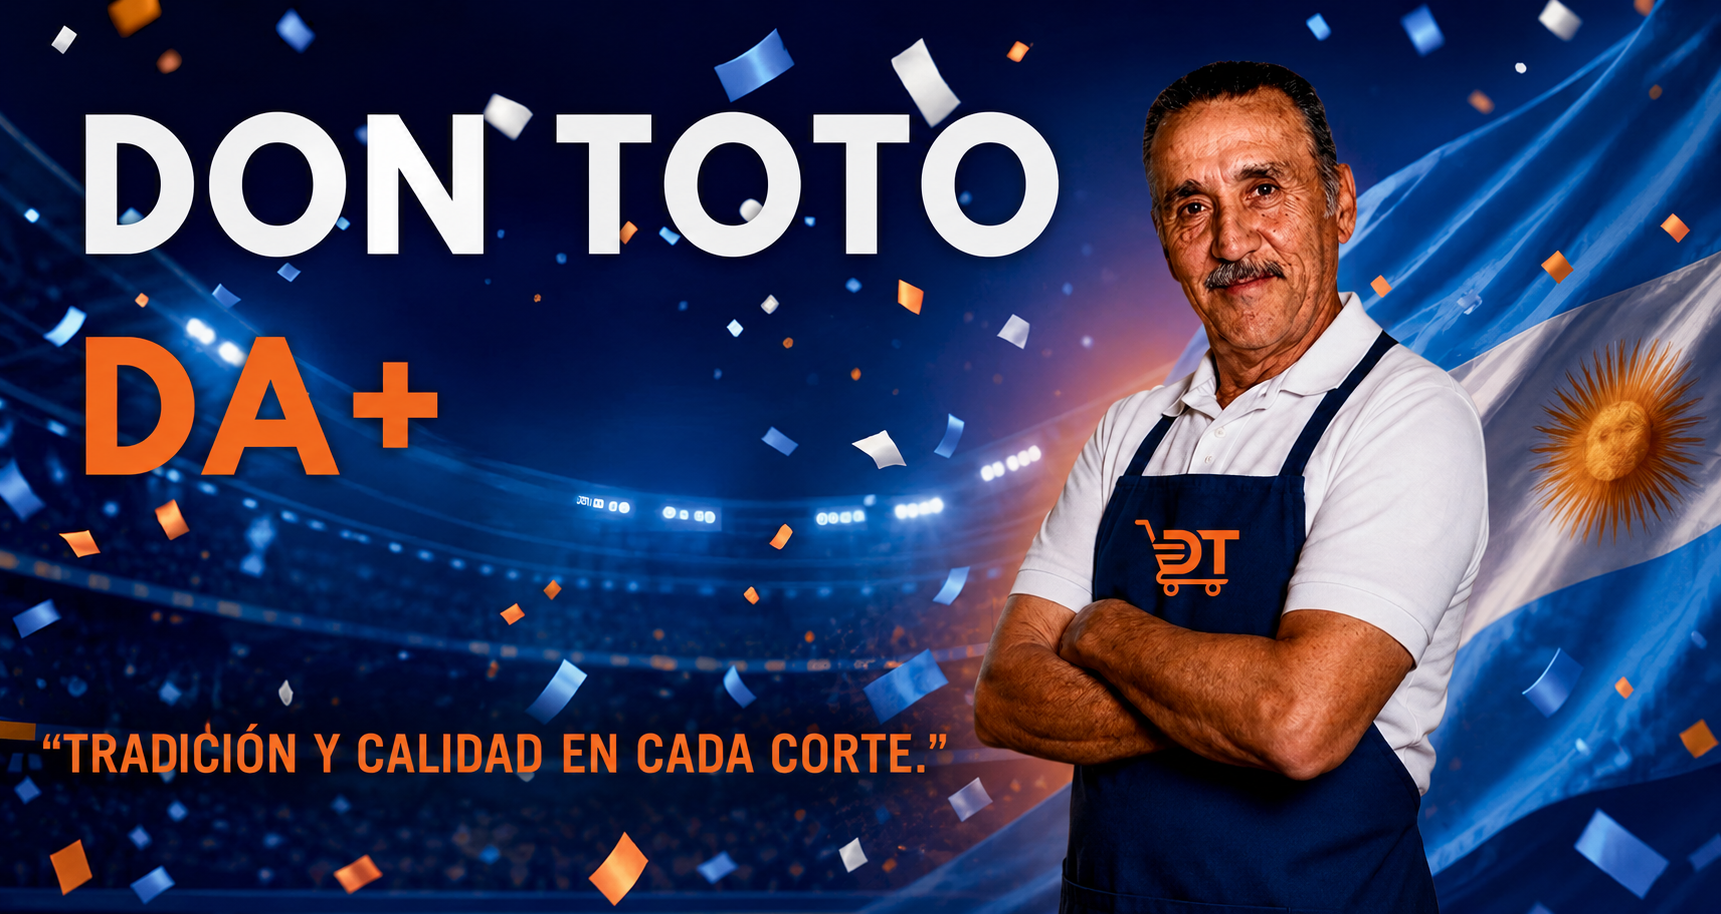
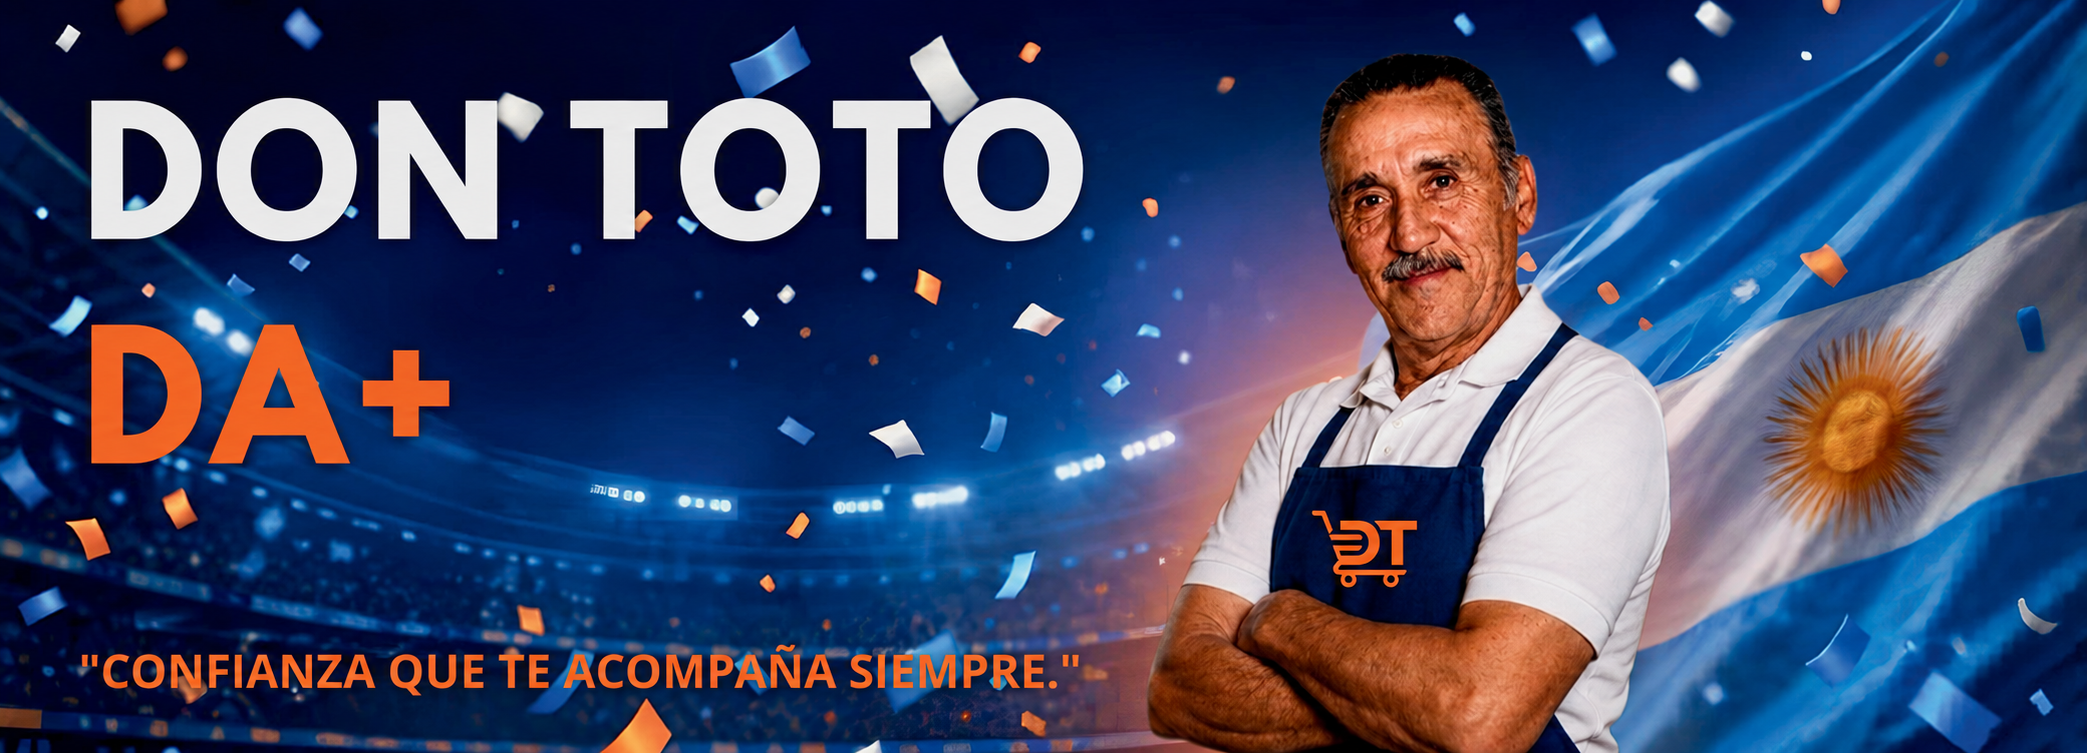
Header: icono oficial + buscador centrado; Hero: limpiar slide bienvenida y separar imagen del slide de liquidacion
Header (SiteHeader.tsx, Logo.tsx):
- DonTotoLogo suma la variante icon="official", que usa
  public/imagenes/dt-icon-oficial.png via next/image en vez del
  CartMark SVG. Los demas usos del logo (footer, Hero, ValuePropsStrip)
  siguen con el SVG porque necesitan la variante reversed sobre fondos
  navy/naranja.
- La fila del header pasa a grid de 3 columnas desde sm: para centrar
  el buscador en el ancho total, no solo en el hueco logo<->iconos.
  En mobile no cambia (sigue siendo flex).

Hero (Hero.tsx):
- El slide "bienvenida" ya no tiene overlay codeado (logo/tagline, CTA
  "Ver catalogo", pills) — el mensaje de marca viene integrado en la
  imagen reemplazada (hero-don-toto.png). object-position responsive
  para que el recorte mobile/sm no caiga en el hueco vacio del centro
  de esa imagen panoramica.
- El slide "liquidacion" (Asado de Tira Premium) ya no reutiliza
  hero-don-toto.png — usa su propia foto (asado-tira-promo.png), asi
  que no vuelve a mostrar el banner de marca donde deberia haber
  comida. Verificado legible con el overlay existente, sin necesidad
  de un overlay extra.

diff --git a/components/Hero.tsx b/components/Hero.tsx
@@ -4,21 +4,19 @@ import { useEffect, useState } from "react";
 import Image from "next/image";
 import Link from "next/link";
 import { formatoPeso } from "@/lib/format";
-import { DonTotoLogo } from "./Logo";
 import { PauseIcon, PlayIcon } from "./icons";
 
 const DURATION_MS = 6000;
 
-// El slide "bienvenida" es de marca pura (sin precio) y va siempre primero.
-// Los slides "promo" comparten el layout de precio grande + tachado + ahorro.
+// El slide "bienvenida" es solo la imagen de fondo (hero-don-toto.png) — el
+// mensaje de marca ya viene integrado en la propia imagen, así que no lleva
+// ningún overlay codeado (texto, CTA ni pills) encima. Los slides "promo"
+// comparten el layout de precio grande + tachado + ahorro.
 // Reemplazar por datos reales cuando exista el backend.
 type SlideBienvenida = {
   id: string;
   variant: "bienvenida";
-  descripcion: string;
   imagen: string;
-  ctaLabel: string;
-  ctaHref: string;
 };
 
 type SlidePromo = {
@@ -40,11 +38,7 @@ const SLIDES: Slide[] = [
   {
     id: "bienvenida",
     variant: "bienvenida",
-    descripcion:
-      "Tradición y calidad en cada corte — más de 20 años acompañando a tu familia.",
     imagen: "/hero-don-toto.png",
-    ctaLabel: "Ver catálogo",
-    ctaHref: "/tienda",
   },
   {
     id: "liquidacion",
@@ -57,7 +51,10 @@ const SLIDES: Slide[] = [
     precio: 8900,
     precioAntes: 12900,
     unidad: "kg",
-    imagen: "/hero-don-toto.png",
+    // foto propia del asado con productos Don Toto DA+ a la vista — antes
+    // compartía hero-don-toto.png con el slide de bienvenida, lo que quedaba
+    // inconsistente (mostraba el banner de marca en vez de comida).
+    imagen: "/asado-tira-promo.png",
   },
   {
     id: "congelados",
@@ -143,41 +140,29 @@ export default function Hero() {
             alt={s.variant === "promo" ? s.nombre : "Don Toto DA+"}
             fill
             priority={i === 0}
-            className={`object-cover object-center transition-opacity duration-700 ease-out ${
-              i === index ? "opacity-100" : "opacity-0"
-            }`}
+            className={`object-cover transition-opacity duration-700 ease-out ${
+              // el banner de bienvenida es panorámico (2087×753) — en los recortes
+              // más angostos (mobile 4:5 ≈29% del ancho visible, sm 16:9 ≈64%) el
+              // centro cae en el hueco vacío entre el wordmark y la foto, o corta
+              // el wordmark a la mitad. Se corre el foco hacia la derecha para
+              // priorizar a Don Toto; en lg (21:9 ≈84% visible) ya entra casi
+              // todo el banner, así que ahí va centrado. Los demás slides quedan
+              // en object-center siempre.
+              s.variant === "bienvenida"
+                ? "object-[75%_center] sm:object-[68%_center] lg:object-center"
+                : "object-center"
+            } ${i === index ? "opacity-100" : "opacity-0"}`}
           />
         ))}
 
-        {/* overlay navy — nunca violeta, mantiene la paleta de marca */}
-        <div className="absolute inset-0 bg-gradient-to-t from-brand-dark via-brand-dark/75 to-brand-dark/10 sm:bg-gradient-to-r sm:from-brand-dark sm:via-brand-dark/85 sm:to-transparent" />
-        <div className="absolute inset-0 bg-dot-grid bg-dots opacity-40 mix-blend-overlay" />
+        {slide.variant === "promo" && (
+          <>
+            {/* overlay navy — nunca violeta, mantiene la paleta de marca */}
+            <div className="absolute inset-0 bg-gradient-to-t from-brand-dark via-brand-dark/75 to-brand-dark/10 sm:bg-gradient-to-r sm:from-brand-dark sm:via-brand-dark/85 sm:to-transparent" />
+            <div className="absolute inset-0 bg-dot-grid bg-dots opacity-40 mix-blend-overlay" />
 
-        <div className="relative flex h-full flex-col justify-end px-5 pb-24 sm:justify-center sm:px-10 sm:pb-0 lg:px-16">
-          <div key={slide.id} className="max-w-md animate-fade-up">
-            {slide.variant === "bienvenida" ? (
-              <>
-                <h1 className="mt-1">
-                  <DonTotoLogo
-                    reversed
-                    markClassName="h-11 w-11 sm:h-14 sm:w-14"
-                    textClassName="text-4xl sm:text-5xl lg:text-6xl"
-                  />
-                </h1>
-                <p className="mt-4 max-w-sm text-sm text-white/70 sm:text-base">
-                  {slide.descripcion}
-                </p>
-                <div className="mt-6">
-                  <Link
-                    href={slide.ctaHref}
-                    className="inline-block rounded-full bg-white px-7 py-3 text-sm font-extrabold text-brand-navy shadow-tagSm transition hover:-translate-y-0.5 active:translate-y-0"
-                  >
-                    {slide.ctaLabel}
-                  </Link>
-                </div>
-              </>
-            ) : (
-              <>
+            <div className="relative flex h-full flex-col justify-end px-5 pb-24 sm:justify-center sm:px-10 sm:pb-0 lg:px-16">
+              <div key={slide.id} className="max-w-md animate-fade-up">
                 <span className="inline-block -rotate-2 rounded-md bg-brand-orange px-3 py-1 text-[11px] font-extrabold uppercase tracking-widest text-white shadow-tagSm">
                   {slide.eyebrow}
                 </span>
@@ -217,20 +202,21 @@ export default function Hero() {
                     Ver ofertas del día
                   </Link>
                 </div>
-              </>
-            )}
-          </div>
-        </div>
+              </div>
+            </div>
 
-        {/* badges de promoción del negocio — persistentes, no rotan con el slide */}
-        <div className="absolute bottom-14 left-5 flex flex-wrap gap-2 sm:bottom-12 sm:left-10 lg:left-16">
-          <span className="flex items-center gap-1.5 rounded-full bg-white/10 px-3 py-1.5 text-[11px] font-semibold text-white backdrop-blur-sm ring-1 ring-white/15">
-            🎟 Con tu tarjeta Don Toto DA+ acumulás puntos
-          </span>
-          <span className="flex items-center gap-1.5 rounded-full bg-white/10 px-3 py-1.5 text-[11px] font-semibold text-white backdrop-blur-sm ring-1 ring-white/15">
-            🏪 Retirá hoy en el local
-          </span>
-        </div>
+            {/* badges de promoción del negocio — persistentes mientras dura un
+                slide promo, pero no se muestran sobre la bienvenida */}
+            <div className="absolute bottom-14 left-5 flex flex-wrap gap-2 sm:bottom-12 sm:left-10 lg:left-16">
+              <span className="flex items-center gap-1.5 rounded-full bg-white/10 px-3 py-1.5 text-[11px] font-semibold text-white backdrop-blur-sm ring-1 ring-white/15">
+                🎟 Con tu tarjeta Don Toto DA+ acumulás puntos
+              </span>
+              <span className="flex items-center gap-1.5 rounded-full bg-white/10 px-3 py-1.5 text-[11px] font-semibold text-white backdrop-blur-sm ring-1 ring-white/15">
+                🏪 Retirá hoy en el local
+              </span>
+            </div>
+          </>
+        )}
 
         {/* controles del carrusel — barra de progreso segmentada + play/pausa */}
         <div className="absolute inset-x-0 bottom-0 flex items-center gap-3 px-5 py-3.5 sm:px-10 lg:px-16">

diff --git a/components/SiteHeader.tsx b/components/SiteHeader.tsx
@@ -14,20 +14,25 @@ export default function SiteHeader() {
       </div>
 
       <div className="flex flex-col gap-3 border-b border-black/5 bg-white px-5 py-3 shadow-sm sm:px-8 sm:py-4">
-        <div className="flex items-center justify-between gap-4">
-          <Link href="/" className="shrink-0">
-            <DonTotoLogo markClassName="h-8 w-8" textClassName="text-xl" />
-          </Link>
+        {/* en mobile queda el flex de siempre; desde sm: pasa a grid de 3
+            columnas (lados 1fr + centro fijo) para centrar el buscador en
+            el ancho total del header, no solo en el hueco logo↔íconos */}
+        <div className="flex items-center justify-between gap-4 sm:grid sm:grid-cols-[1fr_minmax(0,28rem)_1fr]">
+          <div className="flex min-w-0 items-center gap-4">
+            <Link href="/" className="shrink-0">
+              <DonTotoLogo icon="official" markClassName="h-8 w-auto" textClassName="text-xl" />
+            </Link>
 
-          <CategoriesMenu />
+            <CategoriesMenu />
+          </div>
 
           {/* buscador — visual, sin lógica de búsqueda real todavía */}
-          <div className="hidden flex-1 items-center gap-2 rounded-full border border-black/10 bg-brand-cream px-4 py-2.5 text-sm text-brand-dark/50 sm:flex sm:max-w-md">
+          <div className="hidden items-center gap-2 rounded-full border border-black/10 bg-brand-cream px-4 py-2.5 text-sm text-brand-dark/50 sm:flex">
             <SearchIcon className="h-4 w-4 shrink-0 text-brand-dark/40" />
             <span className="truncate">Buscá carnes, almacén, bebidas…</span>
           </div>
 
-          <div className="flex shrink-0 items-center gap-1.5 sm:gap-2">
+          <div className="flex shrink-0 items-center gap-1.5 sm:justify-self-end sm:gap-2">
             <QuickListModal />
             <button
               type="button"

diff --git a/components/Logo.tsx b/components/Logo.tsx
@@ -1,6 +1,12 @@
 // Recreación en SVG del logo del manual de marca (carrito + wordmark).
 // El manual entrega un mockup rasterizado, no un asset vectorial exportado,
 // así que se reconstruye acá con los mismos colores exactos (#0D2B63 / #F07E26).
+//
+// El header usa el ícono oficial (public/imagenes/dt-icon-oficial.png) vía
+// icon="official" — el resto de los usos (footer, Hero, ValuePropsStrip)
+// siguen con el SVG porque necesitan la variante "reversed" (blanca) sobre
+// fondos navy/naranja, y el PNG oficial es un color fijo.
+import Image from "next/image";
 
 export function CartMark({
   className = "h-8 w-8",
@@ -32,11 +38,13 @@ export function DonTotoLogo({
   textClassName = "text-xl",
   stacked = false,
   reversed = false,
+  icon = "svg",
 }: {
   markClassName?: string;
   textClassName?: string;
   stacked?: boolean;
   reversed?: boolean;
+  icon?: "svg" | "official";
 }) {
   return (
     <span
@@ -44,7 +52,18 @@ export function DonTotoLogo({
         stacked ? "flex-col text-center" : "flex-row"
       }`}
     >
-      <CartMark className={markClassName} reversed={reversed} />
+      {icon === "official" ? (
+        <Image
+          src="/imagenes/dt-icon-oficial.png"
+          alt="Don Toto DA+"
+          width={580}
+          height={415}
+          priority
+          className={`${markClassName} object-contain`}
+        />
+      ) : (
+        <CartMark className={markClassName} reversed={reversed} />
+      )}
       <span
         className={`font-display font-extrabold leading-none ${textClassName} ${
           reversed ? "text-white" : "text-brand-navy"
